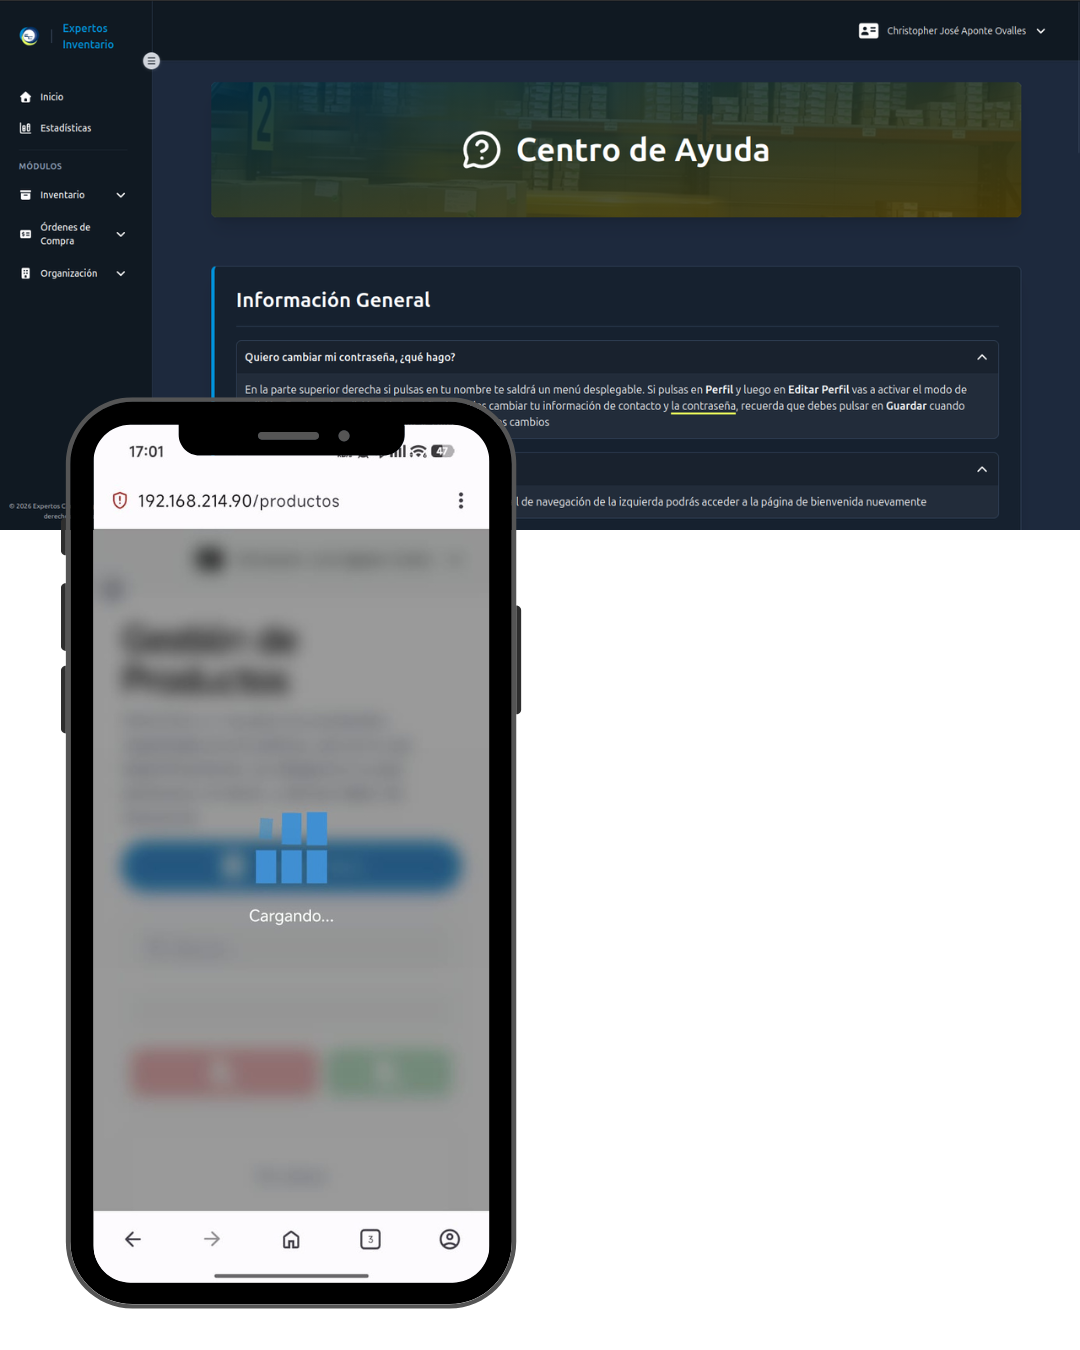
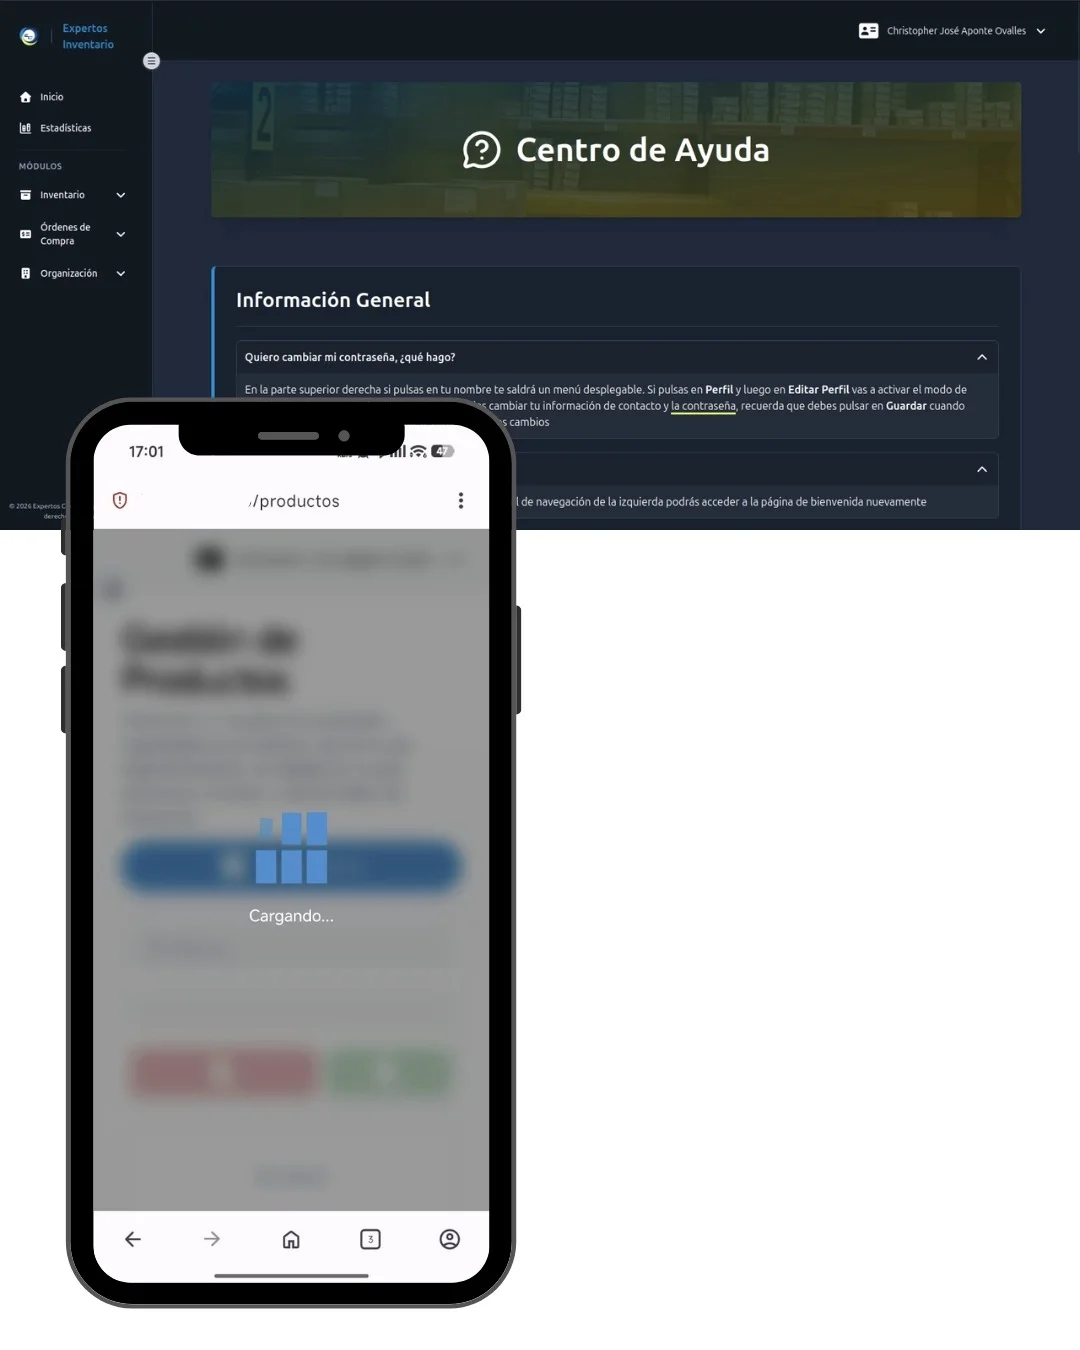
feat: remove unused TaskMan images for improved clarity and maintainability

diff --git a/src/assets/projects/TaskMan/TaskMan.js b/src/assets/projects/TaskMan/TaskMan.js
@@ -1,6 +1,4 @@
 import TaskMan from "./TaskMan.webp"
-import TaskMan2 from "./TaskMan2.webp"
-import TaskMan3 from "./TaskMan3.webp"
 import TaskMan4 from "./TaskMan4.webp"
 
 const projectsData = {
@@ -24,14 +22,10 @@ const projectsData = {
         ],
         collections: [
             TaskMan,
-            TaskMan2,
-            TaskMan3,
             TaskMan4
         ],
         slides: {
             [TaskMan]: "Main bot workspace showing run history and overall network check health.",
-            [TaskMan2]: "Connected-device detail view with key diagnostics for faster troubleshooting.",
-            [TaskMan3]: "Port and latency consolidation to spot bottlenecks and unstable links.",
             [TaskMan4]: "Monitoring panel for event tracking and incident prioritization."
         }
     }
